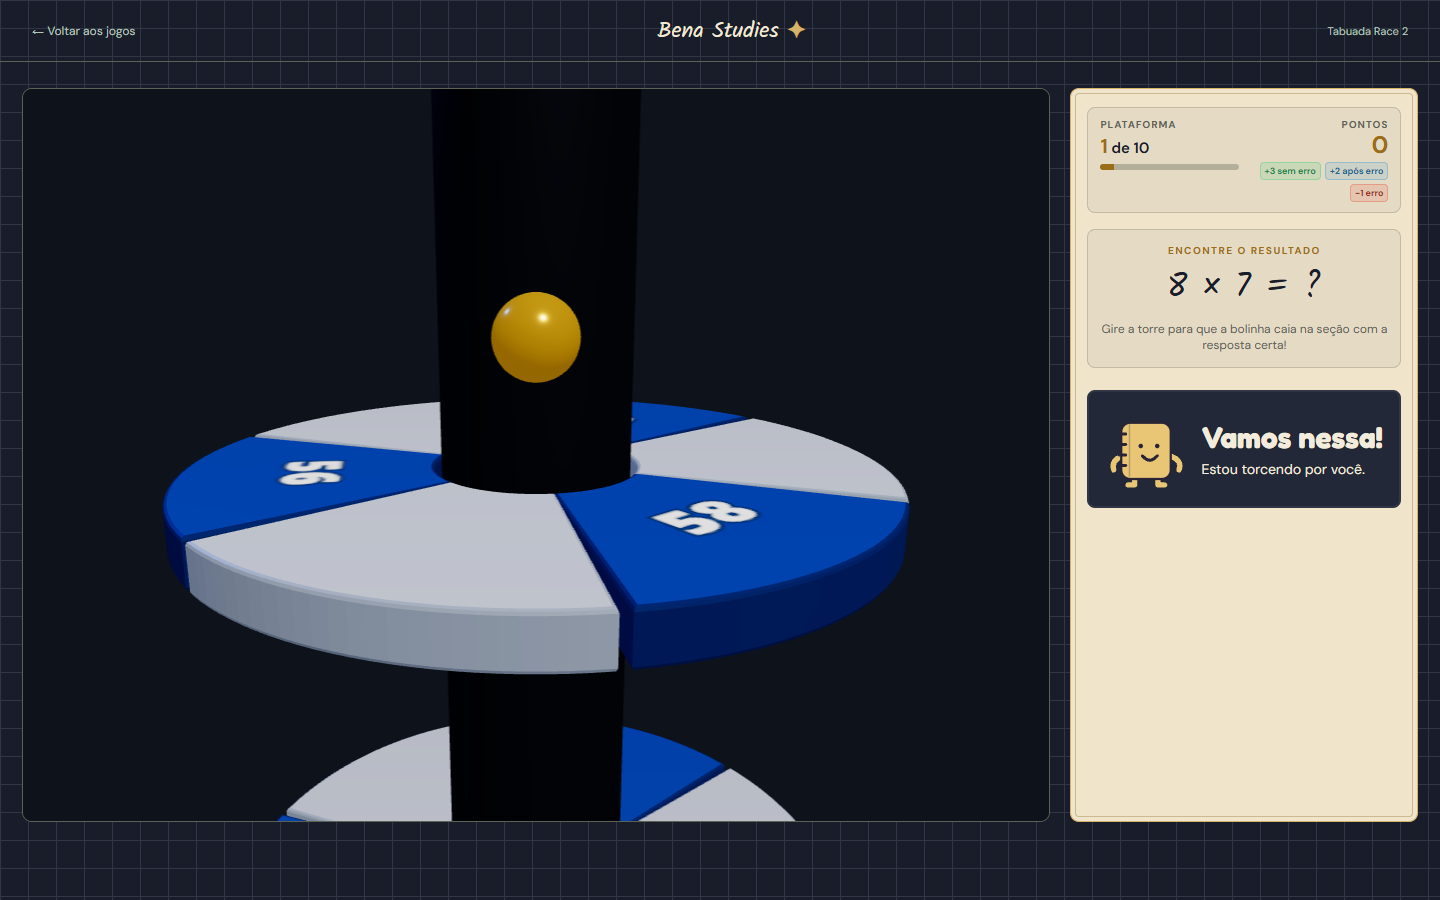
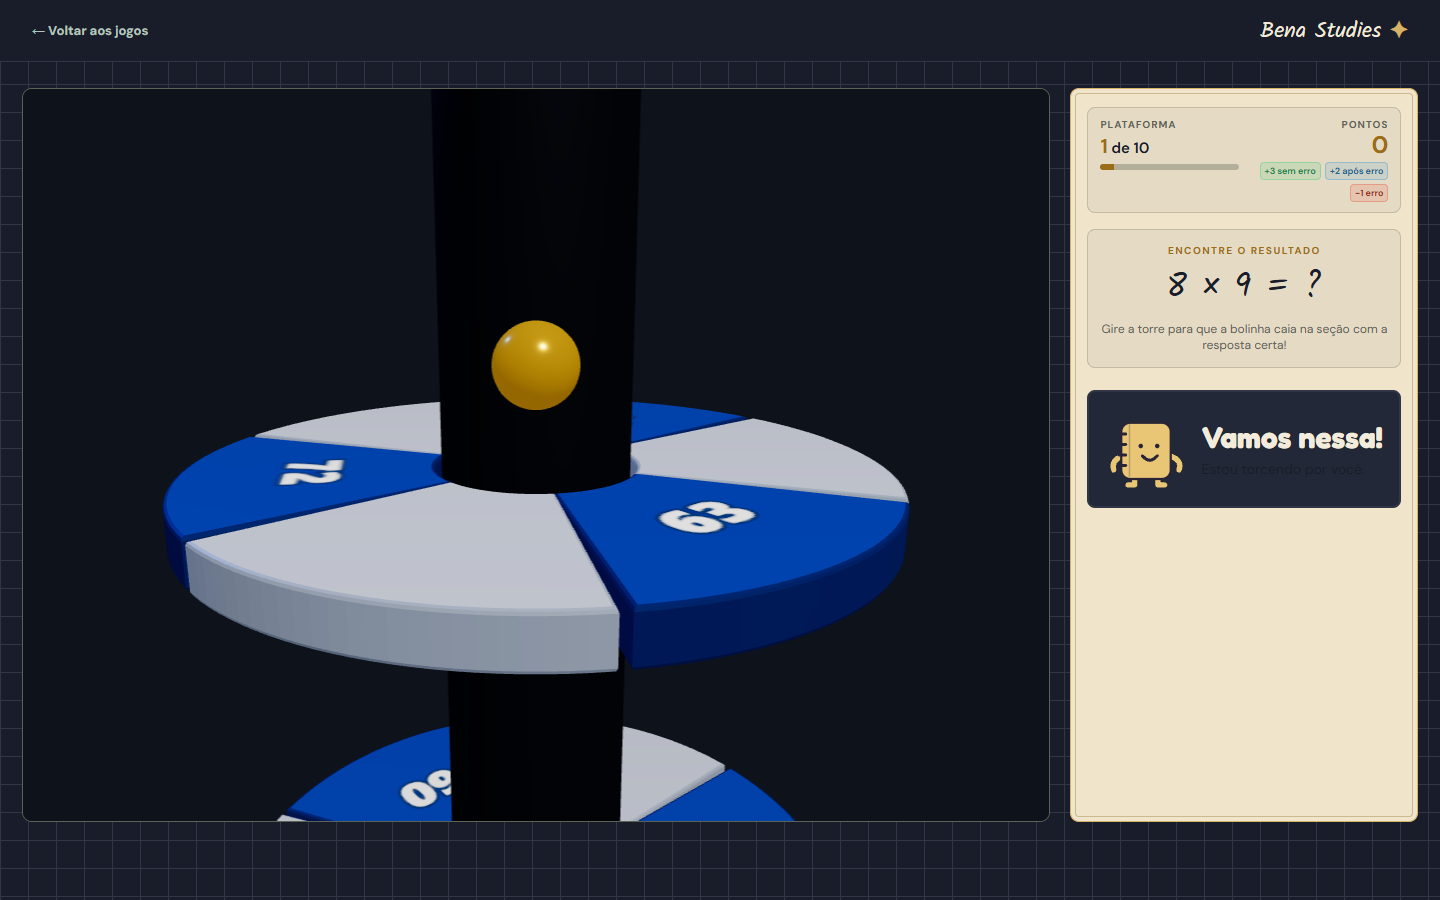
feat: alinhar secao vazia sob acerto, contraste do mascote e padronizar header solido em todos os jogos

diff --git a/conteudo/3-serie/matematica/tabuada/003/estilo.css b/conteudo/3-serie/matematica/tabuada/003/estilo.css
@@ -4,8 +4,8 @@
 .box-page button{font-family:var(--body,'DM Sans',sans-serif);font-size:13px;cursor:pointer}
 .box-page button:focus-visible,.box-page a:focus-visible,.box-page canvas:focus-visible{outline:3px solid var(--brass);outline-offset:3px}
 .box-page button:disabled{cursor:default;opacity:.5}.box-page [hidden]{display:none!important}
-.box-header{height:62px;display:flex;align-items:center;justify-content:space-between;gap:20px;border-bottom:1px solid var(--edge);padding:0 32px;font-size:12px}
-.box-header>a{color:var(--workshop-muted);text-decoration:none}.box-header>span:nth-child(2){font-family:var(--display,Georgia);font-size:22px}.box-header b{color:var(--brass)}.header-subject{color:var(--workshop-muted);font-size:11px}
+.game-template-header,.box-header{height:62px;display:flex;align-items:center;justify-content:space-between;gap:20px;border-bottom:1px solid #303646;padding:0 clamp(18px,3vw,32px);background:#191d29;font-size:13px;box-sizing:border-box}
+.game-template-header>a,.box-header>a{color:var(--workshop-muted);text-decoration:none;font-weight:700}.game-template-header>a:hover,.box-header>a:hover{color:var(--brass)}.game-template-header>span:nth-child(2),.box-header>span:nth-child(2){font-family:var(--display,Georgia);font-size:22px}.game-template-header b,.box-header b{color:var(--brass)}.header-subject{color:var(--workshop-muted);font-size:11px}
 .workshop{max-width:1780px;margin:auto;padding:26px 32px 14px}
 .panel-kicker{font-size:10px;font-weight:700;letter-spacing:1.6px;margin:0 0 10px}
 .camera-buttons button{background:transparent;border:1px solid var(--edge);border-radius:5px;padding:10px 13px;color:var(--workshop-ink)}

diff --git a/conteudo/3-serie/matematica/tabuada/004/estilo.css b/conteudo/3-serie/matematica/tabuada/004/estilo.css
@@ -32,21 +32,24 @@
   outline-offset: 3px;
 }
 
-/* Cabeçalho do template */
+/* Cabeçalho do template padronizado (fundo sólido escuro #191d29) */
 .game-template-header {
   height: 62px;
   display: flex;
   align-items: center;
   justify-content: space-between;
   gap: 20px;
-  padding: 0 32px;
-  border-bottom: 1px solid var(--template-edge);
-  font-size: 12px;
+  padding: 0 clamp(18px, 3vw, 32px);
+  border-bottom: 1px solid #303646;
+  background: #191d29;
+  font-size: 13px;
+  box-sizing: border-box;
 }
 
 .game-template-header a {
   color: var(--template-muted);
   text-decoration: none;
+  font-weight: 700;
 }
 
 .game-template-header a:hover {
@@ -60,11 +63,6 @@
 
 .game-template-header b {
   color: var(--template-brass);
-}
-
-.game-title-label {
-  color: var(--template-muted);
-  font-size: 11px;
 }
 
 /* Layout Exato do Template de Duas Áreas */
@@ -298,10 +296,16 @@
   border-radius: 8px;
 }
 
-/* Adaptação do Mascote sobre o fundo bege */
-.helix-sidebar .mascot-feedback:is(.success, .error) .mascot-caption,
-.helix-sidebar .mascot-feedback .mascot-equation {
+/* Adaptação do Mascote sobre o painel lateral:
+   Em estado neutro (ready), preserva var(--panel-ink) sobre o bege.
+   Em erro ou sucesso (fundo escuro/colorido), força #fff6e9 para alto contraste legível! */
+.helix-sidebar .mascot-feedback.ready .mascot-caption {
   color: var(--panel-ink);
+}
+
+.helix-sidebar .mascot-feedback:is(.success, .error) .mascot-caption,
+.helix-sidebar .mascot-feedback:is(.success, .error) .mascot-equation {
+  color: #fff6e9 !important;
 }
 
 /* Tela de Resultado Final */

diff --git a/conteudo/3-serie/matematica/tabuada/002/estilo.css b/conteudo/3-serie/matematica/tabuada/002/estilo.css
@@ -2,8 +2,11 @@
 
 /* Página própria: sem moldura, sobreposição ou limite de altura de modal. */
 body.standalone-game{background:var(--paper);min-height:100dvh}
-.game-page-header{padding:18px clamp(18px,3vw,48px);display:flex;justify-content:space-between;gap:20px;border-bottom:1px solid var(--line);font-size:13px}
-.game-page-header>a{font-weight:700}.game-page-header>span{font-family:'Fredoka',sans-serif;color:var(--muted)}
+.game-template-header, .game-page-header{height:62px;display:flex;align-items:center;justify-content:space-between;gap:20px;padding:0 clamp(18px,3vw,32px);border-bottom:1px solid #303646;background:#191d29;font-size:13px;box-sizing:border-box}
+.game-template-header>a, .game-page-header>a{font-weight:700;color:var(--muted);text-decoration:none}
+.game-template-header>a:hover, .game-page-header>a:hover{color:#d7b36a}
+.game-template-header>span, .game-page-header>span{font-family:var(--display,Georgia),serif;font-size:22px;color:var(--ink)}
+.game-template-header b, .game-page-header b{color:#d7b36a}
 .room-page.room-dialog{width:100%;max-height:none;min-height:calc(100dvh - 58px);padding:clamp(20px,3vw,48px);margin:0}
 .room-page .room-layout{grid-template-columns:minmax(0,1fr) minmax(310px,380px);gap:clamp(20px,3vw,42px)}
 .room-page .room-world{width:100%}.room-page .room-top{padding-right:0}.room-page .room-top h2{font-size:clamp(32px,3.5vw,52px)}

diff --git a/assets/site.css b/assets/site.css
@@ -98,3 +98,41 @@ dialog .mascot-hint p { color: #fff6e9; font-size: 14px; line-height: 1.6; margi
 .score-value { display: block; font-family: 'Fredoka', sans-serif; font-size: 34px; color: var(--accent); margin-bottom: 8px; }
 .score-summary p { margin-top: 5px; }
 dialog .timing-note { font-size: 12px; margin-top: 6px; }
+
+/* Padrão oficial de cabeçalho para páginas de jogos */
+.game-template-header {
+  height: 62px;
+  display: flex;
+  align-items: center;
+  justify-content: space-between;
+  gap: 20px;
+  padding: 0 clamp(18px, 3vw, 32px);
+  border-bottom: 1px solid #303646;
+  background-color: #191d29;
+  background-image: none;
+  font-size: 13px;
+  box-sizing: border-box;
+}
+
+.game-template-header a {
+  color: #b6bac9;
+  text-decoration: none;
+  font-weight: 700;
+  display: inline-flex;
+  align-items: center;
+}
+
+.game-template-header a:hover {
+  color: #d7b36a;
+}
+
+.game-template-header > span:nth-child(2) {
+  font-family: var(--display, Georgia), serif;
+  font-size: 22px;
+  color: #f3ecdc;
+}
+
+.game-template-header b {
+  color: #d7b36a;
+}
+

diff --git a/templates/jogo-duas-areas/estilo.css b/templates/jogo-duas-areas/estilo.css
@@ -31,14 +31,21 @@
   align-items: center;
   justify-content: space-between;
   gap: 20px;
-  padding: 0 32px;
-  border-bottom: 1px solid var(--template-edge);
-  font-size: 12px;
+  padding: 0 clamp(18px, 3vw, 32px);
+  border-bottom: 1px solid #303646;
+  background: #191d29;
+  font-size: 13px;
+  box-sizing: border-box;
 }
 
 .game-template-header a {
   color: var(--template-muted);
   text-decoration: none;
+  font-weight: 700;
+}
+
+.game-template-header a:hover {
+  color: var(--template-brass);
 }
 
 .game-template-header > span:nth-child(2) {
@@ -47,11 +54,6 @@
 }
 
 .game-template-header b { color: var(--template-brass); }
-
-.game-template-header > span:last-child {
-  color: var(--template-muted);
-  font-size: 11px;
-}
 
 .game-template-layout {
   display: grid;

diff --git a/conteudo/3-serie/matematica/tabuada/002/index.html b/conteudo/3-serie/matematica/tabuada/002/index.html
@@ -8,7 +8,7 @@
   <link rel="stylesheet" href="estilo.css">
 </head>
 <body data-design="caderno-dark" class="standalone-game">
-  <header class="game-page-header"><a href="../../../../../index.html#jogos-tabuada">← Voltar aos jogos</a><span>Bena Studies ✦</span></header>
+  <header class="game-template-header game-page-header"><a href="../../../../../index.html#jogos-tabuada">← Voltar aos jogos</a><span>Bena Studies <b>✦</b></span></header>
   <main id="game" class="room-page" aria-label="Jogo De novo essa fase?"></main>
   <script src="../../../../../config/site.js"></script>
   <script src="../../../../../assets/componentes/feedback.js"></script>

diff --git a/conteudo/3-serie/matematica/tabuada/003/index.html b/conteudo/3-serie/matematica/tabuada/003/index.html
@@ -11,7 +11,7 @@
   <script type="importmap">{"imports":{"three":"../../../../../assets/vendor/three/three.module.js"}}</script>
 </head>
 <body data-design="caderno-dark" class="box-page">
-  <header class="box-header">
+  <header class="game-template-header box-header">
     <a href="../../../../../index.html#jogos-tabuada">← Voltar aos jogos</a>
     <span>Bena Studies <b>✦</b></span>
   </header>

diff --git a/conteudo/3-serie/matematica/tabuada/004/index.html b/conteudo/3-serie/matematica/tabuada/004/index.html
@@ -14,7 +14,6 @@
   <header class="game-template-header">
     <a href="../../../../../index.html#jogos-tabuada">← Voltar aos jogos</a>
     <span>Bena Studies <b>✦</b></span>
-    <span class="game-title-label">Tabuada Race 2</span>
   </header>
 
   <main id="game" class="game-template-layout" aria-label="Jogo Tabuada Race 2">

diff --git a/AGENTS.md b/AGENTS.md
@@ -20,6 +20,19 @@ Antes de criar ou alterar jogos ou ranking, leia e siga [Regras de pontuação](
 ## Páginas de jogos
 As páginas dos jogos NÃO devem ter hero section ou footer. Apenas a área efetiva do jogo e área de instruções, dicas, ferramentas, comandos, etc...
 
+### Padrão obrigatório de cabeçalho dos jogos
+Todas as páginas próprias de jogos e templates de jogos devem seguir estritamente o seguinte padrão de cabeçalho (`<header class="game-template-header">`):
+1. **Estrutura e elementos**:
+   - Elemento da esquerda: link para retornar (`<a href="...">← Voltar aos jogos</a>`).
+   - Elemento da direita: marca do site (`<span>Bena Studies <b>✦</b></span>`).
+   - **NÃO incluir o nome do jogo no cabeçalho** (apenas os dois elementos acima, alinhados às extremidades via `display: flex; justify-content: space-between; align-items: center;`).
+2. **Estilo visual**:
+   - Fundo sólido na cor `#191d29` (sem transparência e sem o padrão quadriculado/grid de caderno visível no cabeçalho).
+   - Borda inferior sutil `1px solid #303646`.
+   - Altura padrão de 62px com preenchimento lateral `padding: 0 clamp(18px, 3vw, 32px)`.
+   - Marca "Bena Studies" em tipografia serif/display de 22px (`font-family: var(--display, Georgia), serif; font-size: 22px; color: #f3ecdc;`).
+   - Símbolo `✦` em destaque dourado/brass (`#d7b36a`).
+
 ## Servidor
 Quando o usuário pedir para abrir o servidor, use "http://localhost:8765/"
 
